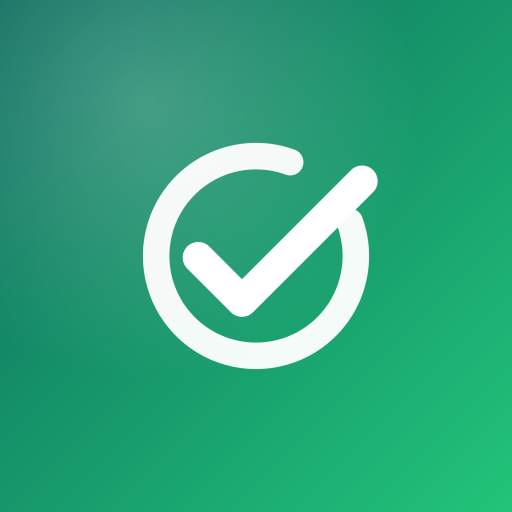
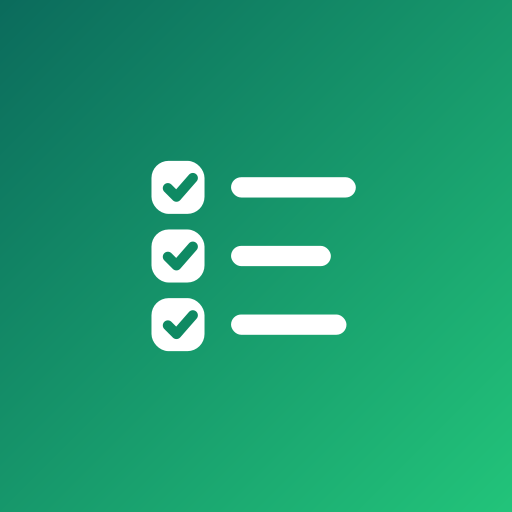
Icono de lista con tres checks que se marcan al cargar; caché más robusta
Claude-Session: https://claude.ai/code/session_01NhNzyCuWANDSU6zG5z4xzY

diff --git a/index.html b/index.html
@@ -10,9 +10,9 @@
 <meta name="mobile-web-app-capable" content="yes">
 <meta name="apple-mobile-web-app-status-bar-style" content="black-translucent">
 <meta name="apple-mobile-web-app-title" content="Checklist">
-<link rel="manifest" href="manifest.webmanifest">
-<link rel="icon" href="icon.svg" type="image/svg+xml">
-<link rel="apple-touch-icon" href="icon-180.png">
+<link rel="manifest" href="manifest.webmanifest?v=4">
+<link rel="icon" href="icon.svg?v=4" type="image/svg+xml">
+<link rel="apple-touch-icon" href="icon-180.png?v=4">
 <link rel="preconnect" href="https://fonts.googleapis.com">
 <link rel="preconnect" href="https://fonts.gstatic.com" crossorigin>
 <link href="https://fonts.googleapis.com/css2?family=Instrument+Serif:ital@0;1&family=Inter:wght@400;500;600;700&display=swap" rel="stylesheet">
@@ -43,8 +43,13 @@ input{font:inherit;color:inherit}
 #splash{position:fixed;inset:0;z-index:100;background:var(--bg);display:flex;flex-direction:column;align-items:center;justify-content:center;gap:22px;transition:opacity .4s ease,visibility .4s}
 #splash.hide{opacity:0;visibility:hidden}
 #splash .mark{width:104px;height:104px;animation:pop .7s cubic-bezier(.2,1.4,.4,1) both}
-#splash .mark .ring{stroke-dasharray:1;stroke-dashoffset:1;animation:draw .8s .35s cubic-bezier(.6,0,.2,1) forwards}
-#splash .mark .tick{stroke-dasharray:1;stroke-dashoffset:1;animation:draw .55s 1s cubic-bezier(.6,0,.2,1) forwards}
+#splash .mark .ck{stroke-dasharray:1;stroke-dashoffset:1}
+#splash .mark .bx{fill-opacity:0}
+#splash .mark .ln{opacity:.35}
+#splash .mark .bx0{animation:fillb .2s .85s forwards}#splash .mark .ck0{animation:draw .3s .85s cubic-bezier(.6,0,.2,1) forwards}#splash .mark .ln0{animation:lit .3s .85s forwards}
+#splash .mark .bx1{animation:fillb .2s 1.6s forwards}#splash .mark .ck1{animation:draw .3s 1.6s cubic-bezier(.6,0,.2,1) forwards}#splash .mark .ln1{animation:lit .3s 1.6s forwards}
+#splash .mark .bx2{animation:fillb .2s 2.3s forwards}#splash .mark .ck2{animation:draw .3s 2.3s cubic-bezier(.6,0,.2,1) forwards}#splash .mark .ln2{animation:lit .3s 2.3s forwards}
+@keyframes lit{to{opacity:1}}@keyframes fillb{to{fill-opacity:1}}
 #splash .word{font-family:var(--serif);font-size:46px;letter-spacing:-.5px;line-height:1;opacity:0;transform:translateY(8px);animation:up .7s .55s ease forwards}
 #splash .bar{width:148px;height:3px;border-radius:3px;background:var(--line);overflow:hidden;margin-top:6px;opacity:0;animation:fade .3s .2s forwards}
 #splash .bar i{display:block;height:100%;width:100%;transform-origin:left;transform:scaleX(0);background:linear-gradient(90deg,var(--acc2),var(--acc));border-radius:3px;animation:load 2.4s .2s cubic-bezier(.45,.05,.35,1) forwards}
@@ -168,7 +173,7 @@ footer{text-align:center;color:var(--faint);font-size:12.5px;margin-top:34px;lin
 #party.on{opacity:1;visibility:visible}
 #party .box2{text-align:center;max-width:340px;transform:scale(.9);transition:transform .5s cubic-bezier(.2,1.4,.4,1)}
 #party.on .box2{transform:none}
-#party .medal{width:120px;height:120px;margin:0 auto 18px;filter:drop-shadow(0 18px 30px rgba(17,154,94,.35))}
+#party .medal{width:116px;height:116px;border-radius:28px;margin:0 auto 18px;filter:drop-shadow(0 18px 30px rgba(17,154,94,.35))}
 #party h2{font-family:var(--serif);font-weight:400;font-size:42px;line-height:1.05;margin:0 0 10px}
 #party p{color:var(--mute);margin:0 0 24px;line-height:1.5;font-size:15.5px}
 .cta{background:var(--ink);color:var(--bg);padding:15px 28px;border-radius:16px;font-weight:600;font-size:16px}
@@ -183,21 +188,14 @@ footer{text-align:center;color:var(--faint);font-size:12.5px;margin-top:34px;lin
 
 <!-- Splash -->
 <div id="splash" aria-hidden="true">
-  <svg class="mark" viewBox="0 0 512 512">
-    <defs><linearGradient id="sg" x1="0" y1="0" x2="1" y2="1"><stop offset="0" stop-color="#0B6B5C"/><stop offset="1" stop-color="#22C47A"/></linearGradient></defs>
-    <rect width="512" height="512" rx="120" fill="url(#sg)"/>
-    <g fill="none" stroke="#fff" stroke-linecap="round" stroke-linejoin="round">
-      <path class="ring" pathLength="1" d="M376.3 212.2A128 128 0 1 1 299.8 135.7" stroke-width="34"/>
-      <path class="tick" pathLength="1" d="M182 258l56 56L392 160" stroke-width="40"/>
-    </g>
-  </svg>
+  <svg class="mark" viewBox="0 0 512 512"><defs><linearGradient id="sg" x1="0" y1="0" x2="1" y2="1"><stop offset="0" stop-color="#0B6B5C"/><stop offset="1" stop-color="#22C47A"/></linearGradient></defs><rect width="512" height="512" rx="120" fill="url(#sg)"/><rect class="bx bx0" x="128" y="140" width="56" height="56" rx="16" fill="#fff" stroke="#fff" stroke-width="12"/><rect class="ln ln0" x="224" y="155" width="160" height="26" rx="13" fill="#fff"/><path class="ck ck0" pathLength="1" d="M143 169l11 11 21-24" fill="none" stroke="#0F8A63" stroke-width="13" stroke-linecap="round" stroke-linejoin="round"/><rect class="bx bx1" x="128" y="228" width="56" height="56" rx="16" fill="#fff" stroke="#fff" stroke-width="12"/><rect class="ln ln1" x="224" y="243" width="128" height="26" rx="13" fill="#fff"/><path class="ck ck1" pathLength="1" d="M143 257l11 11 21-24" fill="none" stroke="#0F8A63" stroke-width="13" stroke-linecap="round" stroke-linejoin="round"/><rect class="bx bx2" x="128" y="316" width="56" height="56" rx="16" fill="#fff" stroke="#fff" stroke-width="12"/><rect class="ln ln2" x="224" y="331" width="148" height="26" rx="13" fill="#fff"/><path class="ck ck2" pathLength="1" d="M143 345l11 11 21-24" fill="none" stroke="#0F8A63" stroke-width="13" stroke-linecap="round" stroke-linejoin="round"/></svg>
   <div class="word">Checklist</div>
   <div class="bar"><i></i></div>
 </div>
 
 <div class="wrap" id="app">
   <header>
-    <svg class="logo" viewBox="0 0 512 512"><defs><linearGradient id="lg" x1="0" y1="0" x2="1" y2="1"><stop offset="0" stop-color="#0B6B5C"/><stop offset="1" stop-color="#22C47A"/></linearGradient></defs><rect width="512" height="512" rx="120" fill="url(#lg)"/><g fill="none" stroke="#fff" stroke-linecap="round" stroke-linejoin="round"><path d="M376.3 212.2A128 128 0 1 1 299.8 135.7" stroke-width="34"/><path d="M182 258l56 56L392 160" stroke-width="40"/></g></svg>
+    <svg class="logo" viewBox="0 0 512 512"><defs><linearGradient id="lg" x1="0" y1="0" x2="1" y2="1"><stop offset="0" stop-color="#0B6B5C"/><stop offset="1" stop-color="#22C47A"/></linearGradient></defs><rect width="512" height="512" rx="120" fill="url(#lg)"/><rect x="128" y="140" width="56" height="56" rx="16" fill="#fff" stroke="#fff" stroke-width="12"/><rect x="224" y="155" width="160" height="26" rx="13" fill="#fff"/><path d="M143 169l11 11 21-24" fill="none" stroke="#0F8A63" stroke-width="13" stroke-linecap="round" stroke-linejoin="round"/><rect x="128" y="228" width="56" height="56" rx="16" fill="#fff" stroke="#fff" stroke-width="12"/><rect x="224" y="243" width="128" height="26" rx="13" fill="#fff"/><path d="M143 257l11 11 21-24" fill="none" stroke="#0F8A63" stroke-width="13" stroke-linecap="round" stroke-linejoin="round"/><rect x="128" y="316" width="56" height="56" rx="16" fill="#fff" stroke="#fff" stroke-width="12"/><rect x="224" y="331" width="148" height="26" rx="13" fill="#fff"/><path d="M143 345l11 11 21-24" fill="none" stroke="#0F8A63" stroke-width="13" stroke-linecap="round" stroke-linejoin="round"/></svg>
     <div class="brand">Checklist</div>
     <button class="icon-btn" id="themeBtn" aria-label="Cambiar tema">
       <svg class="moon" viewBox="0 0 24 24" fill="none" stroke="currentColor" stroke-width="1.8" stroke-linecap="round" stroke-linejoin="round"><path d="M20 14.5A8 8 0 0 1 9.5 4a8 8 0 1 0 10.5 10.5z"/></svg>
@@ -249,7 +247,7 @@ footer{text-align:center;color:var(--faint);font-size:12.5px;margin-top:34px;lin
 <!-- Celebration -->
 <div id="party" role="dialog" aria-label="Todo completado">
   <div class="box2">
-    <svg class="medal" viewBox="0 0 512 512"><defs><linearGradient id="pg" x1="0" y1="0" x2="1" y2="1"><stop offset="0" stop-color="#0B6B5C"/><stop offset="1" stop-color="#22C47A"/></linearGradient></defs><circle cx="256" cy="256" r="240" fill="url(#pg)"/><g fill="none" stroke="#fff" stroke-linecap="round" stroke-linejoin="round"><path d="M376.3 212.2A128 128 0 1 1 299.8 135.7" stroke-width="30"/><path d="M182 258l56 56L392 160" stroke-width="36"/></g></svg>
+    <svg class="medal" viewBox="0 0 512 512"><defs><linearGradient id="pg" x1="0" y1="0" x2="1" y2="1"><stop offset="0" stop-color="#0B6B5C"/><stop offset="1" stop-color="#22C47A"/></linearGradient></defs><rect width="512" height="512" rx="120" fill="url(#pg)"/><rect x="128" y="140" width="56" height="56" rx="16" fill="#fff" stroke="#fff" stroke-width="12"/><rect x="224" y="155" width="160" height="26" rx="13" fill="#fff"/><path d="M143 169l11 11 21-24" fill="none" stroke="#0F8A63" stroke-width="13" stroke-linecap="round" stroke-linejoin="round"/><rect x="128" y="228" width="56" height="56" rx="16" fill="#fff" stroke="#fff" stroke-width="12"/><rect x="224" y="243" width="128" height="26" rx="13" fill="#fff"/><path d="M143 257l11 11 21-24" fill="none" stroke="#0F8A63" stroke-width="13" stroke-linecap="round" stroke-linejoin="round"/><rect x="128" y="316" width="56" height="56" rx="16" fill="#fff" stroke="#fff" stroke-width="12"/><rect x="224" y="331" width="148" height="26" rx="13" fill="#fff"/><path d="M143 345l11 11 21-24" fill="none" stroke="#0F8A63" stroke-width="13" stroke-linecap="round" stroke-linejoin="round"/></svg>
     <h2>¡Todo hecho!</h2>
     <p id="partyMsg"></p>
     <button class="cta" id="partyOk">Genial</button>

diff --git a/sw.js b/sw.js
@@ -1,9 +1,10 @@
-const CACHE='checklist-v2';
+const CACHE='checklist-app-4';
 const SHELL=['./','index.html','manifest.webmanifest','icon.svg','icon-192.png','icon-512.png','icon-180.png'];
 self.addEventListener('install',e=>{e.waitUntil(caches.open(CACHE).then(c=>c.addAll(SHELL)).then(()=>self.skipWaiting()))});
-self.addEventListener('activate',e=>{e.waitUntil(caches.keys().then(k=>Promise.all(k.filter(x=>x!==CACHE).map(x=>caches.delete(x)))).then(()=>self.clients.claim()))});
+self.addEventListener('activate',e=>{e.waitUntil(caches.keys().then(k=>Promise.all(k.filter(x=>x.startsWith('checklist')&&x!==CACHE).map(x=>caches.delete(x)))).then(()=>self.clients.claim()))});
 self.addEventListener('fetch',e=>{
   if(e.request.method!=='GET')return;
+  if(e.request.mode==='navigate'){e.respondWith(fetch(e.request).then(r=>{const cp=r.clone();caches.open(CACHE).then(c=>c.put('./',cp));return r}).catch(()=>caches.match('./')));return}
   e.respondWith(caches.open(CACHE).then(async c=>{
     const hit=await c.match(e.request,{ignoreSearch:true});
     const net=fetch(e.request).then(r=>{if(r&&(r.ok||r.type==='opaque'))c.put(e.request,r.clone());return r}).catch(()=>hit);
